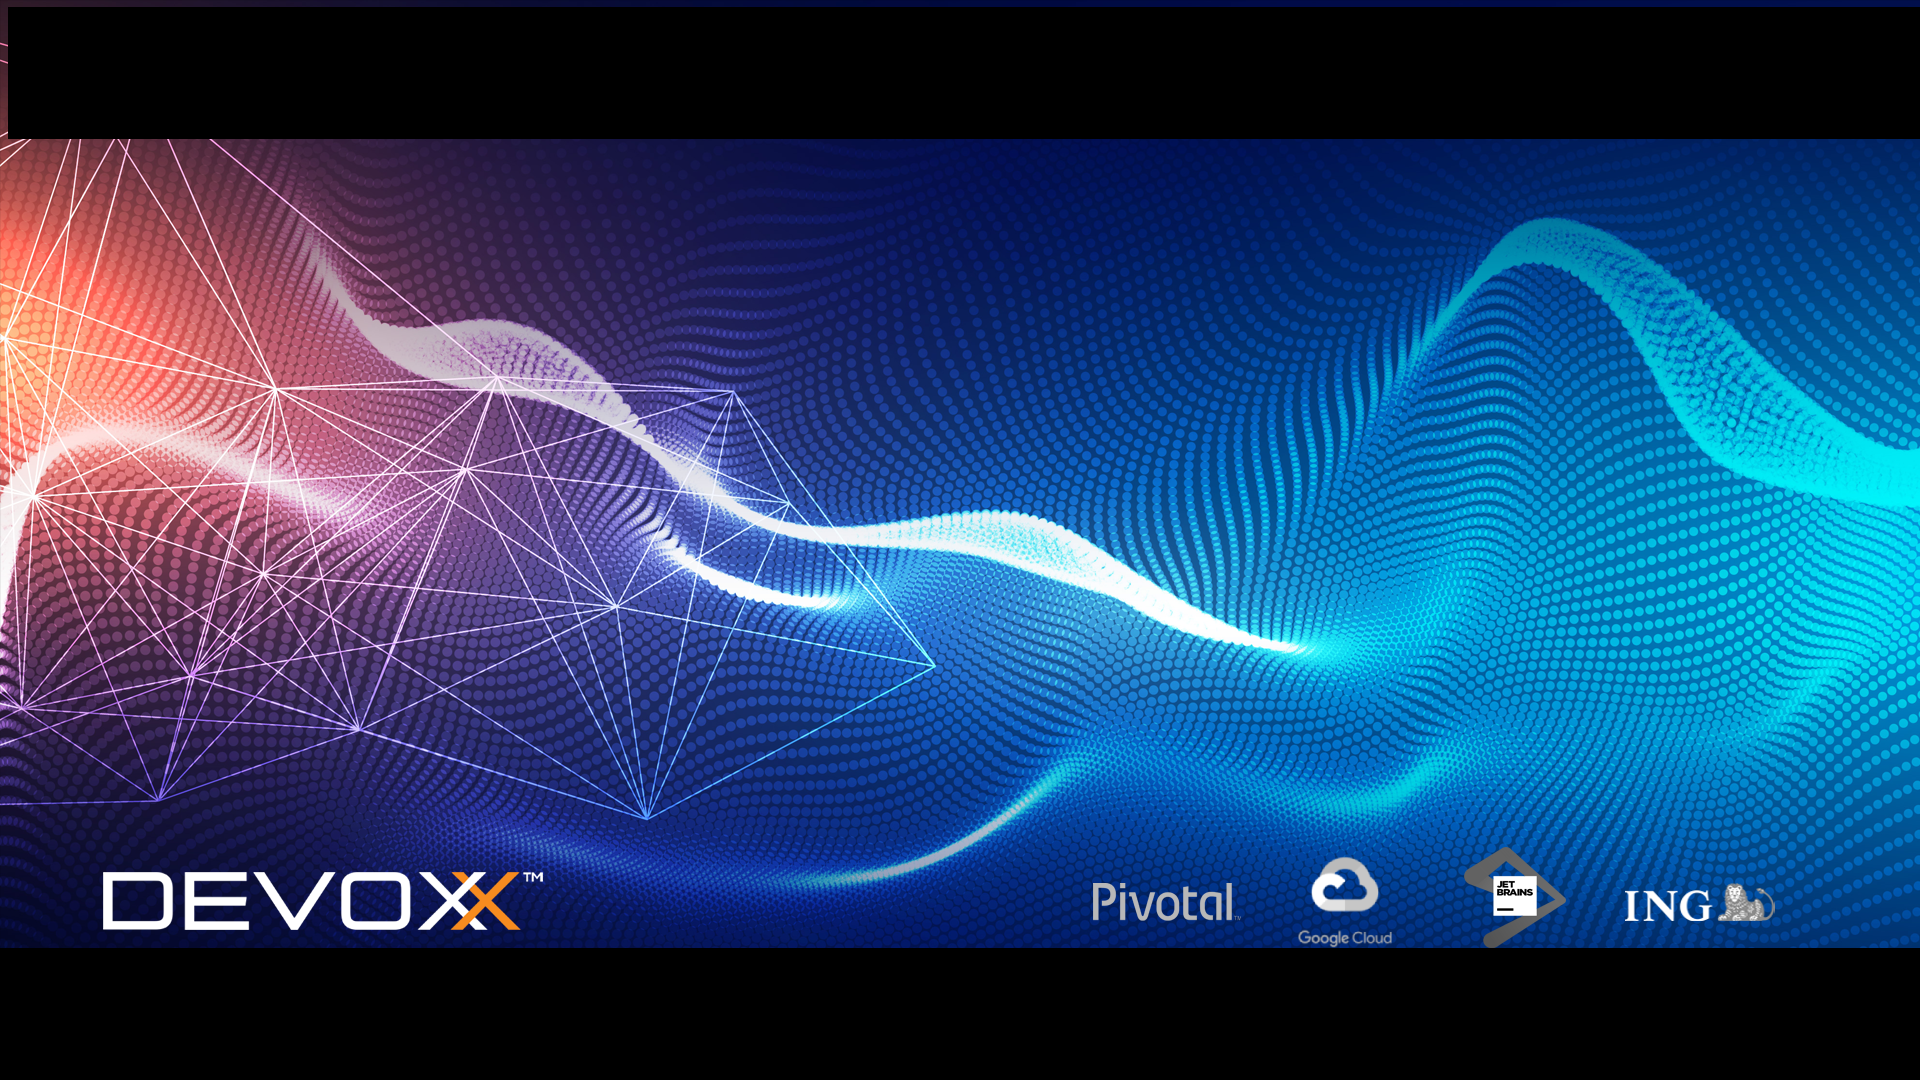
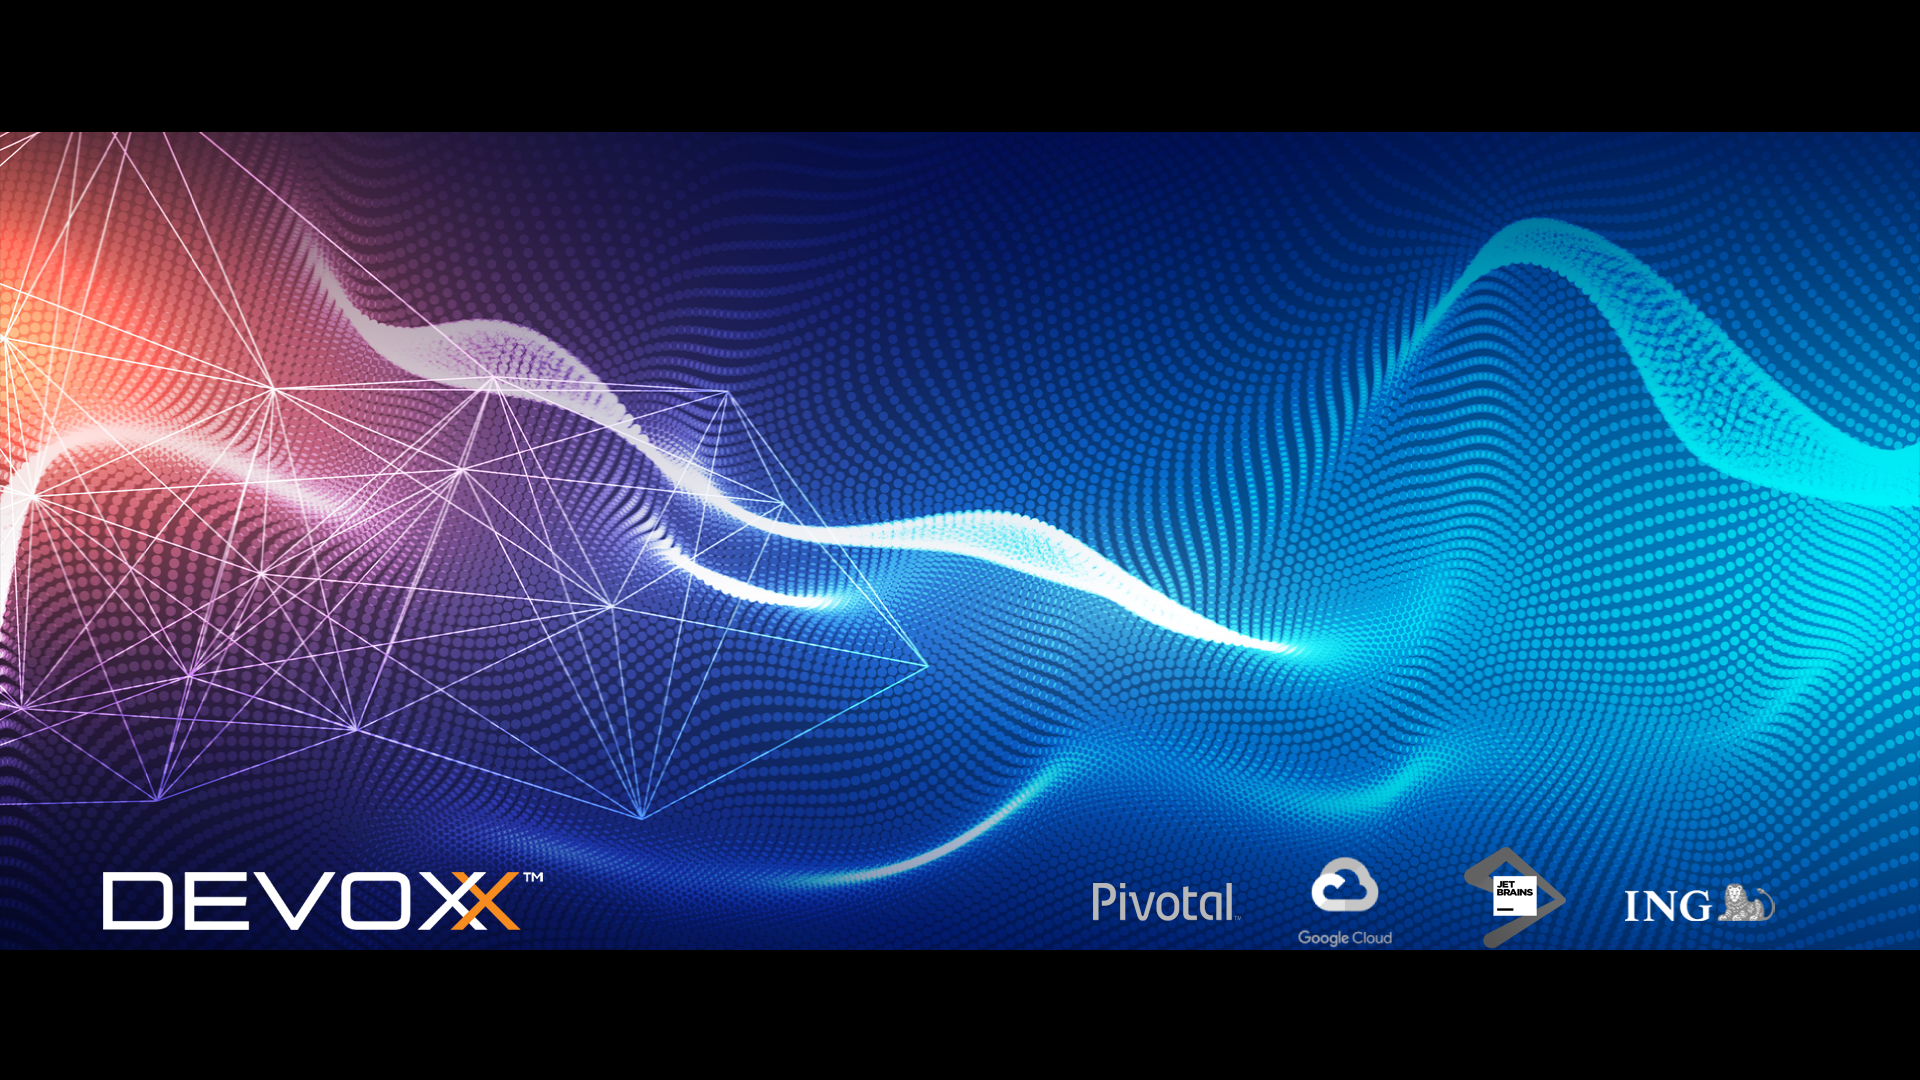
Update to latest backdrop. Fixes #22 (#23)
* Initial prototype for tag cloud visualization on cinema wall. Fixes #5.

* Update to latest backdrop images for all walls. Fixes #22.

Changed region(s): [[0.0, 0.0, 1.0, 0.8861], [0.0312, 0.275, 0.0625, 0.3056]]

diff --git a/exhibition/src/main/resources/tweetwall.css b/exhibition/src/main/resources/tweetwall.css
@@ -55,7 +55,7 @@
 .wordle {
     -fx-graphic: url(Devoxx-Logo-White.png);
     -fx-background-color: black;
-    -fx-background-graphic: url(Devoxx2018CinemaBackdropLeft.png);
+    -fx-background-graphic: url(DevoxxBelgium2018NoLogoBackground.png);
     -fx-second-graphic: url(jug-bodensee-logo-weiss3-gross.png);
     -fx-display-tag-num: 25;
     /*-fx-font: 12pt "BebasNeue";*/

diff --git a/hallway/src/main/resources/tweetwall.css b/hallway/src/main/resources/tweetwall.css
@@ -55,7 +55,7 @@
 .wordle {
     -fx-graphic: url(Devoxx-Logo-White.png);
     -fx-background-color: black;
-    -fx-background-graphic: url(Devoxx2018CinemaBackdropLeft.png);
+    -fx-background-graphic: url(DevoxxBelgium2018NoLogoBackground.png);
     -fx-second-graphic: url(jug-bodensee-logo-weiss3-gross.png);
     -fx-display-tag-num: 25;
     /*-fx-font: 12pt "BebasNeue";*/

diff --git a/cinema4k/src/main/resources/tweetwall.css b/cinema4k/src/main/resources/tweetwall.css
@@ -59,7 +59,7 @@
 .wordle {
     -fx-graphic: none;
     -fx-background-color: black;
-    -fx-background-graphic: url(Devoxx2018CinemaBackdropLeft.png);
+    -fx-background-graphic: url(Devoxx2018CinemaBackdropLeft_4K.png);
     /*-fx-second-graphic: url(jug-bodensee-logo-A-gross-white.png);*/
     -fx-display-tag-num: 25;
     /*-fx-font: 12pt "BebasNeue";*/
